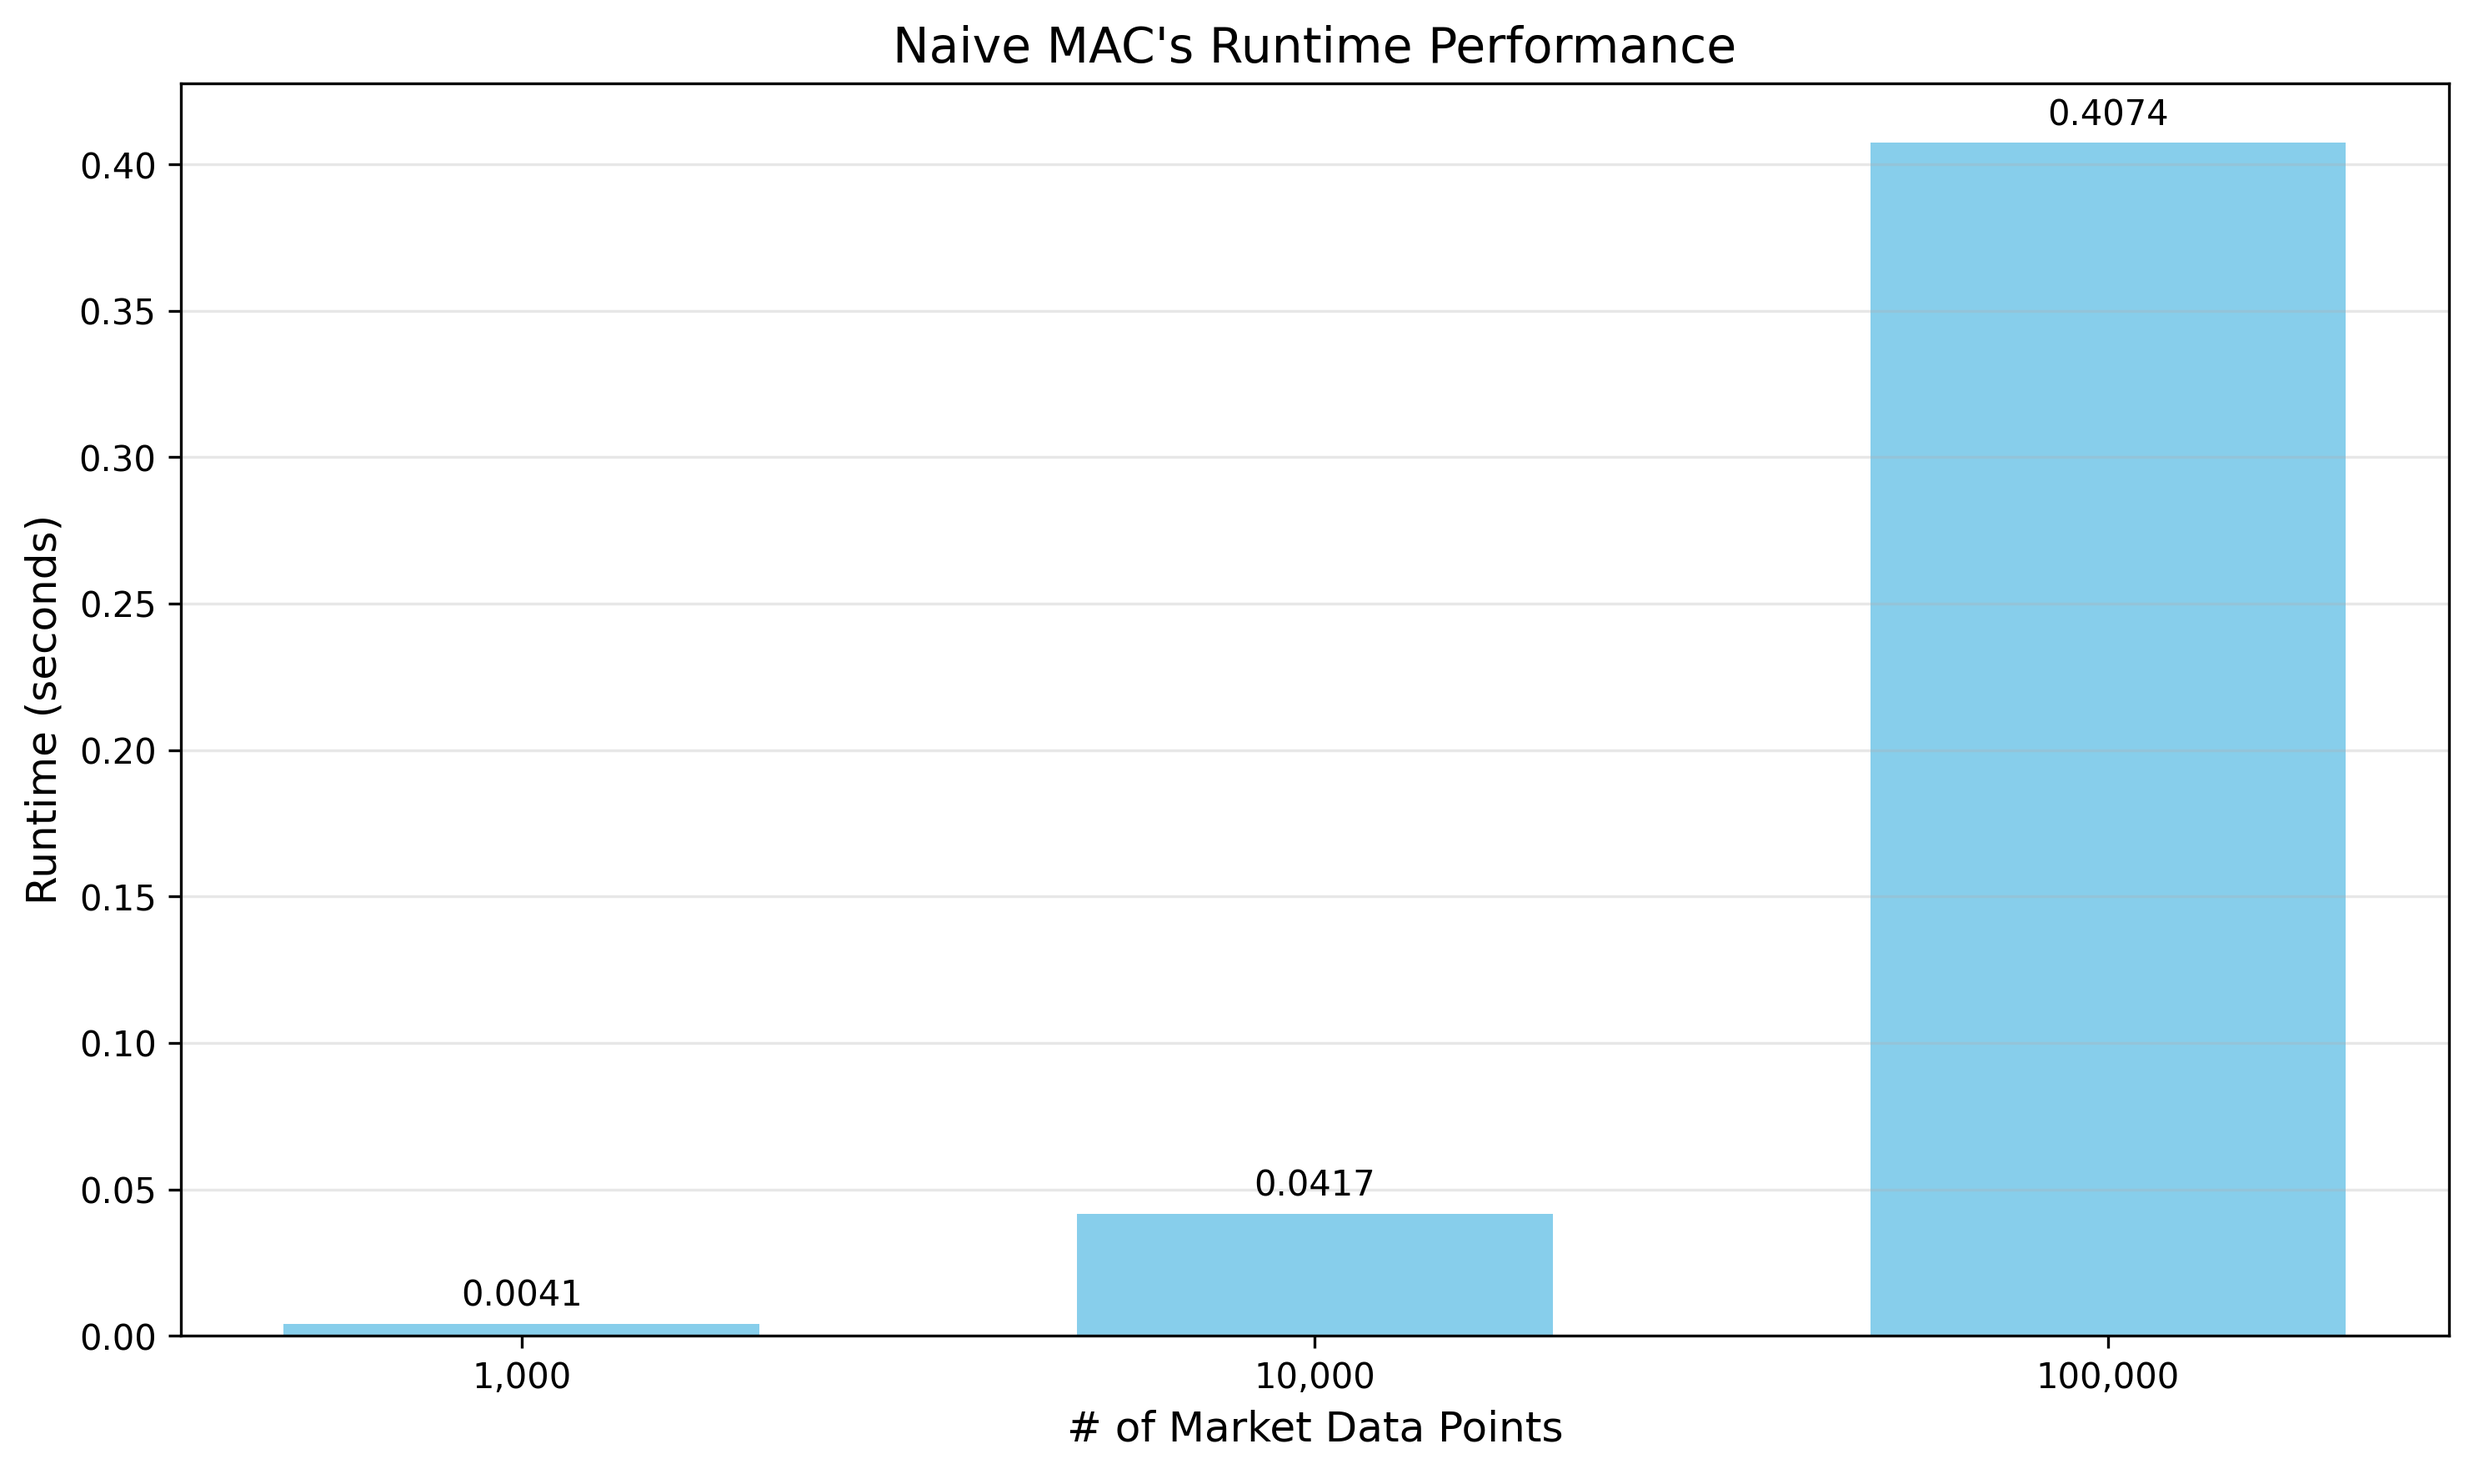
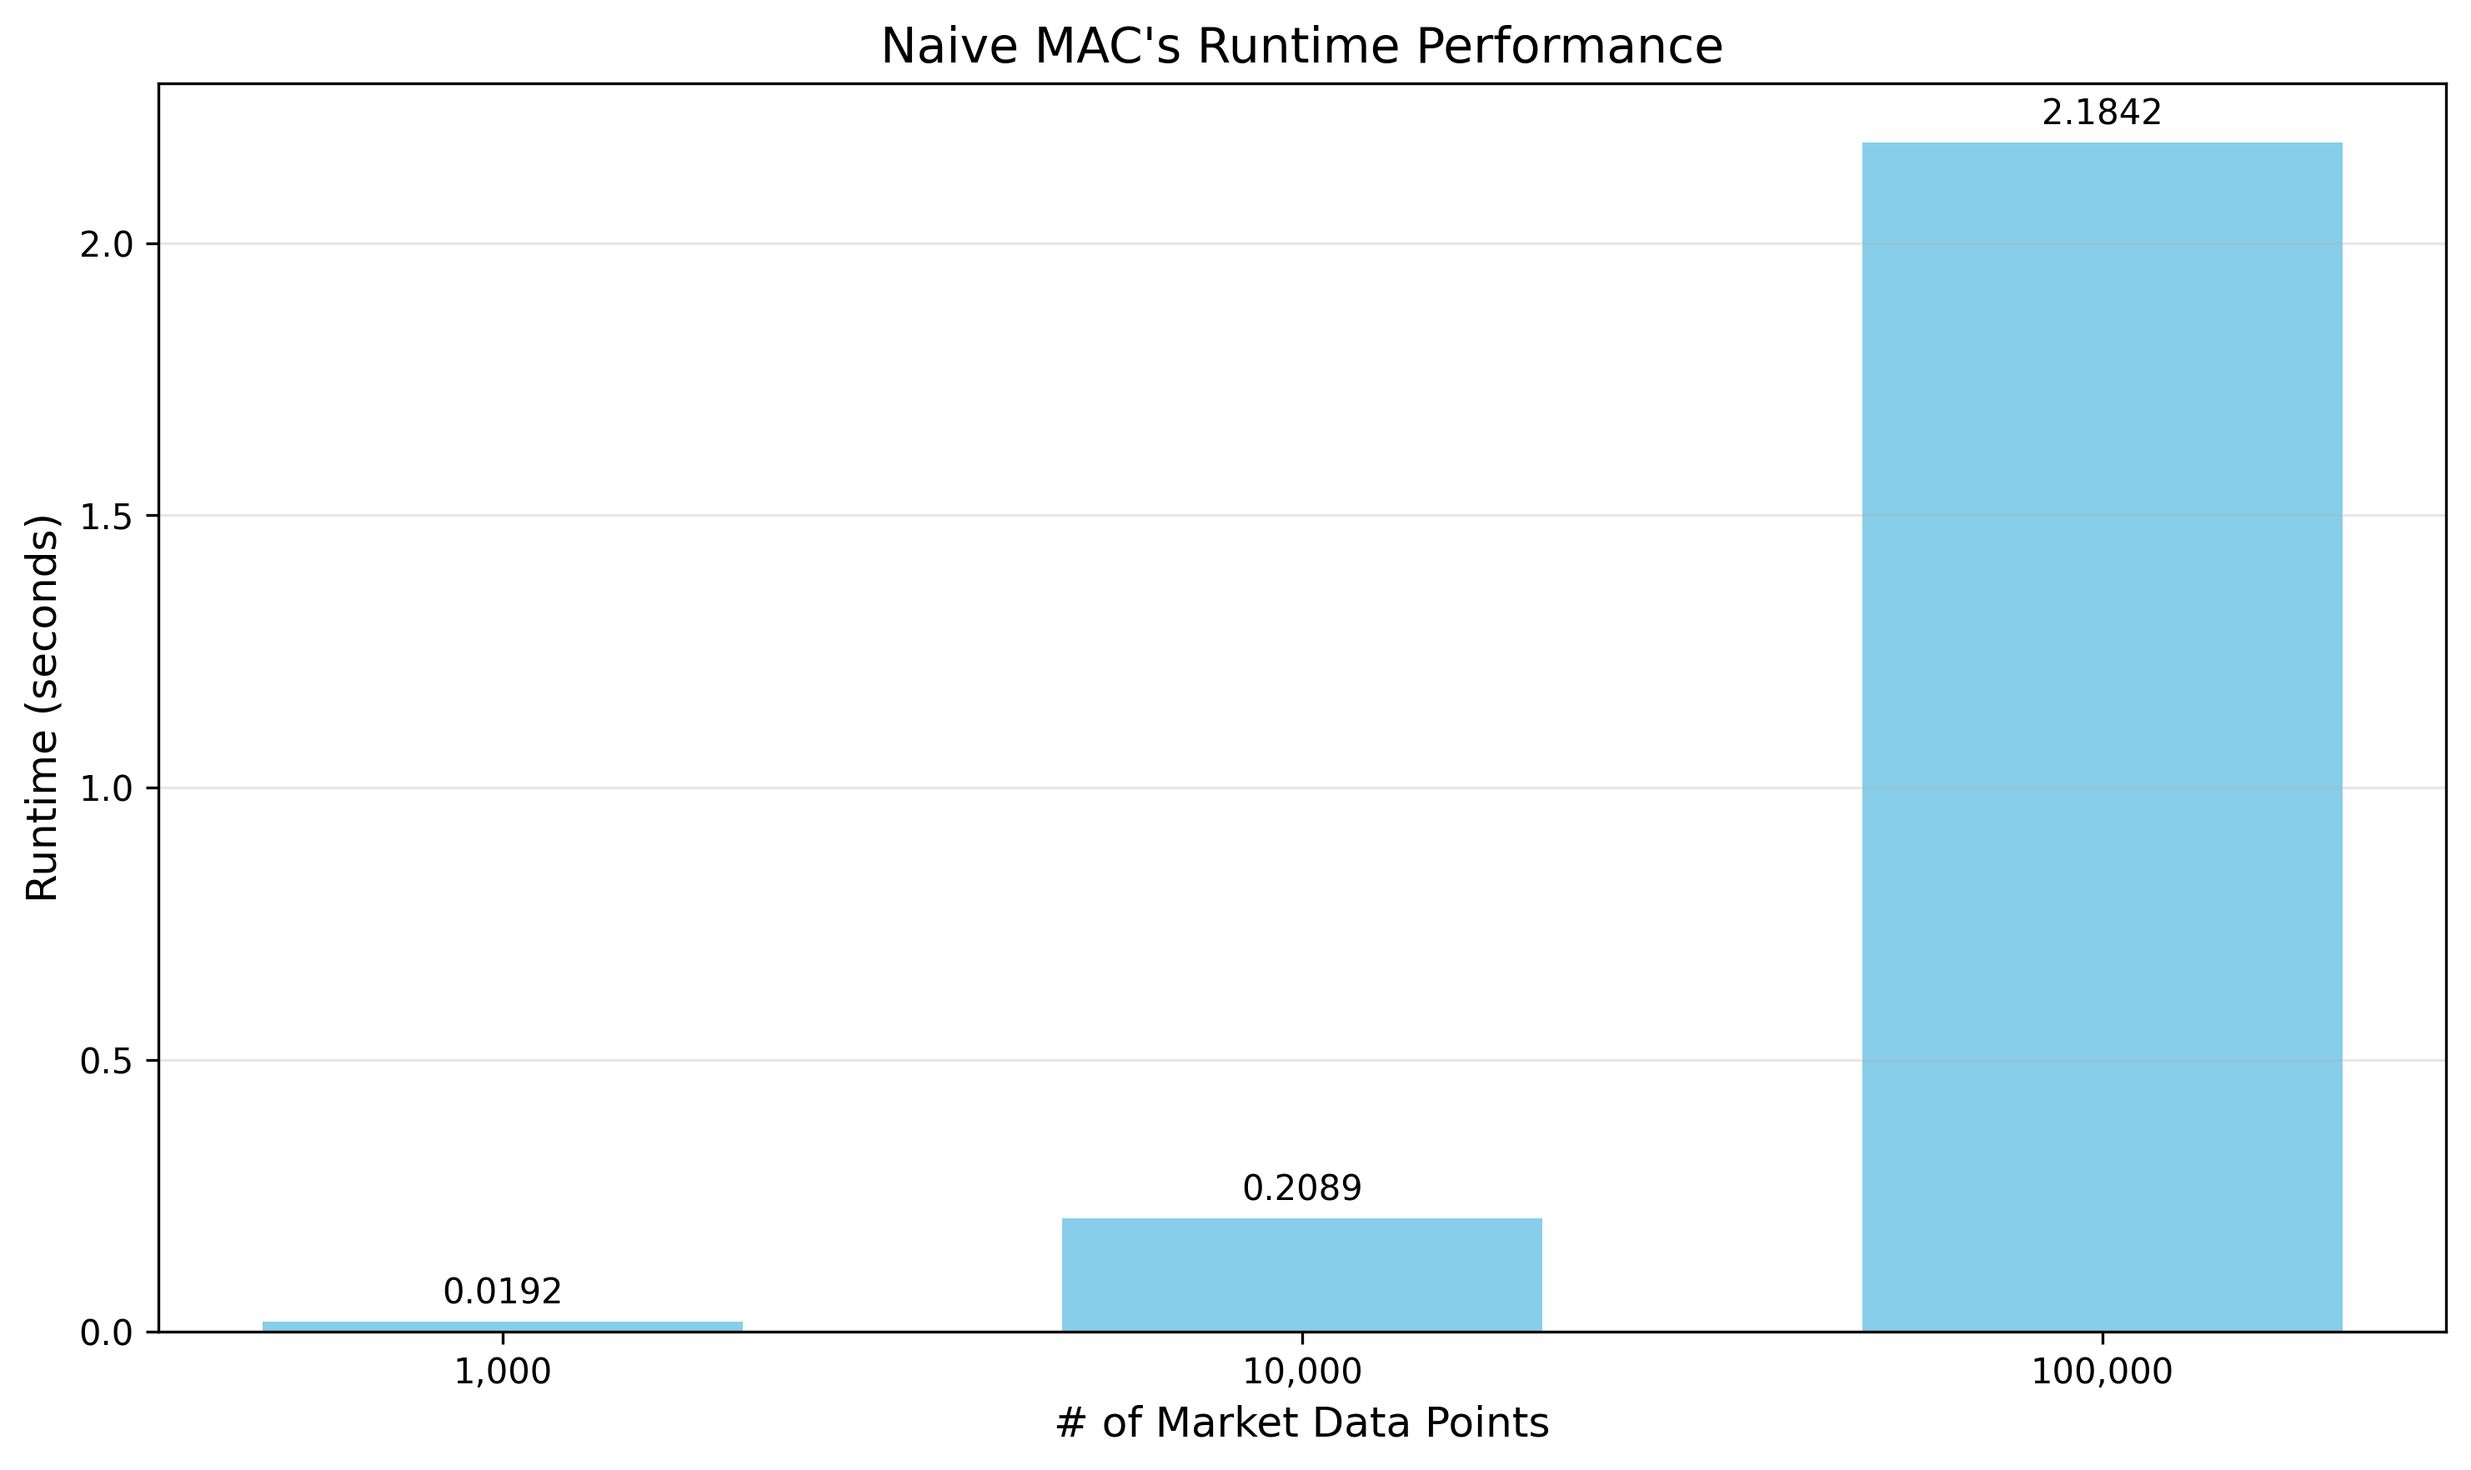
Finish complexity_report.md and refactor some code

diff --git a/Assignment3/ma_tests.py b/Assignment3/ma_tests.py
@@ -1,16 +1,13 @@
 import unittest
-import sys
-from data_loader import load_data
-from strategies import NaiveMovingAverageStrategy, WindowedMovingAverageStrategy
-from models import MarketDataPoint
+from Assignment3.data_loader import load_data
+from Assignment3.strategies import NaiveMovingAverageStrategy, WindowedMovingAverageStrategy
 from datetime import datetime
-from models import MarketDataPoint
+from Assignment3.models import MarketDataPoint
 import time
 import tracemalloc
 import cProfile
 import io
 import pstats
-
 
 
 class NaiveMACTestCase(unittest.TestCase):
@@ -25,7 +22,8 @@ class NaiveMACTestCase(unittest.TestCase):
         self.assertTrue(strategy.generate_signals(mdp), ["HOLD"])
         self.assertTrue(strategy.generate_signals(mdp), ["HOLD"])
         self.assertTrue(strategy.generate_signals(mdp), ["HOLD"])
-    
+
+
     def test_buy_signal(self):
         # create strategy and prices that are oriented towards buy signal
         strategy = NaiveMovingAverageStrategy(2, 5)
@@ -35,7 +33,8 @@ class NaiveMACTestCase(unittest.TestCase):
             mdp = MarketDataPoint(datetime.now(), "MSFT", price)
             signal = strategy.generate_signals(mdp)
         self.assertEqual(signal, ["BUY"])
-    
+
+
     def test_sell_signal(self):
         # get strategy, prices, and reverse
         strategy = NaiveMovingAverageStrategy(2, 5)
@@ -59,7 +58,8 @@ class WindowedMACTestCase(unittest.TestCase):
         self.assertTrue(strategy.generate_signals(mdp), ["HOLD"])
         self.assertTrue(strategy.generate_signals(mdp), ["HOLD"])
         self.assertTrue(strategy.generate_signals(mdp), ["HOLD"])
-    
+
+
     def test_buy_signal(self):
         # create strategy and prices that are oriented towards buy signal
         strategy = WindowedMovingAverageStrategy(2, 5)
@@ -69,7 +69,8 @@ class WindowedMACTestCase(unittest.TestCase):
             mdp = MarketDataPoint(datetime.now(), "MSFT", price)
             signal = strategy.generate_signals(mdp)
         self.assertEqual(signal, ["BUY"])
-    
+
+
     def test_sell_signal(self):
         # create strategy and prices that are oriented towards sel signal
         strategy = WindowedMovingAverageStrategy(2, 5)
@@ -80,6 +81,7 @@ class WindowedMACTestCase(unittest.TestCase):
             mdp = MarketDataPoint(datetime.now(), "MSFT", price)
             signal = strategy.generate_signals(mdp)
         self.assertEqual(signal, ["SELL"])
+
 
     def test_speed_100k(self):
         # create strategy and load data
@@ -96,7 +98,8 @@ class WindowedMACTestCase(unittest.TestCase):
         # get actual time for execution and test
         total_time = end - start
         self.assertTrue(total_time < 1.0)
-    
+
+
     def test_memory_100k(self):
         # create strategy and load data
         strategy = WindowedMovingAverageStrategy(2, 5)
@@ -107,7 +110,8 @@ class WindowedMACTestCase(unittest.TestCase):
             strategy.generate_signals(mdp)
         _, peak = tracemalloc.get_traced_memory()
         self.assertTrue(peak / 10**6 < 100)
-        
+
+
     def test_profiling_hotspots(self):
         # create strategy and load data
         strategy = WindowedMovingAverageStrategy(2, 5)
@@ -127,7 +131,8 @@ class WindowedMACTestCase(unittest.TestCase):
         output = s.getvalue()
         
         self.assertIn("generate_signals", output)
-    
+
+
     def test_profiling_memory_peaks(self):
         # get strategy and load data
         strategy = WindowedMovingAverageStrategy(2, 5)

diff --git a/Assignment3/profiler.py b/Assignment3/profiler.py
@@ -1,12 +1,9 @@
-"""_summary_
-"""
-from data_loader import load_data
+from Assignment3.data_loader import load_data
 import matplotlib.pyplot as plt
-from strategies import Strategy, NaiveMovingAverageStrategy, WindowedMovingAverageStrategy
+from Assignment3.strategies import Strategy, NaiveMovingAverageStrategy, WindowedMovingAverageStrategy
 import time
 import tracemalloc
 import os
-
 
 
 def get_runtime_and_memory(strategy: Strategy, ticks: list[int]):
@@ -14,8 +11,6 @@ def get_runtime_and_memory(strategy: Strategy, ticks: list[int]):
     data = load_data()
     for tick in ticks:
         curr_data = data[:tick]
-        # runtime.append(timeit.timeit(stmt=f"for data_point in curr_data: strategy.generate_signals(data_point)", 
-        #                             setup=f"data={data}; strategy={strategy}; tick={tick}; curr_data={curr_data}", number=1))
         tracemalloc.start()
         start = time.time()
         for data_point in curr_data: 
@@ -26,6 +21,7 @@ def get_runtime_and_memory(strategy: Strategy, ticks: list[int]):
         runtime.append(end - start)
 
     return runtime, memory
+
 
 def plot_strategy_performance(ticks: list[int], values, name, is_runtime=True):
     # Convert memory from bytes to MB for readability
@@ -81,8 +77,6 @@ def main():
         print(memory)
         plot_strategy_performance(ticks, runtime, name, is_runtime=True)
         plot_strategy_performance(ticks, memory, name, is_runtime=False)
-
-
 
 
 if __name__ == "__main__":

diff --git a/Assignment3/data_loader.py b/Assignment3/data_loader.py
@@ -13,7 +13,7 @@ a list to be returned by the function
 # imports
 import csv
 from datetime import datetime
-from models import MarketDataPoint
+from Assignment3.models import MarketDataPoint
 
 
 def load_data():
@@ -37,7 +37,7 @@ l
     data_points = []
 
     # open the csv file O(1)
-    with open('market_data.csv', newline="") as csvfile:
+    with open('Assignment3/market_data.csv', newline="") as csvfile:
         # create a reader using csv import for iteration O(1)
         reader = csv.reader(csvfile)
         # move to the next line to avoid column headers (which should be ignored) O(1)

diff --git a/Assignment3/strategies.py b/Assignment3/strategies.py
@@ -1,7 +1,5 @@
 from abc import ABC, abstractmethod
-# TODO: CHANGE IF WE MOVE MARKETDATAPOINT CLASS TO MODELS.PY
-from data_loader import MarketDataPoint
-from data_loader import load_data
+from Assignment3.models import MarketDataPoint
 from collections import deque
 
 class Strategy(ABC):

diff --git a/Assignment3/complexity_report.md b/Assignment3/complexity_report.md
@@ -22,12 +22,7 @@ We evaluate **runtime performance**, **memory usage**, and **theoretical complex
 ### 2. WindowedMovingAverageStrategy
 - **Description:** Maintains fixed-size buffer for sliding average.  
 - **Time Complexity:** O(1) per tick → O(n) overall  
-- **Space Complexity:** O(k) (buffer of window size k)  
-
-### 3. Optimized Naive Strategy (Optional)
-- **Description:** Refactored to reduce redundant recomputation.  
-- **Expected Complexity:** O(1) per tick, O(k) space  
-
+- **Space Complexity:** O(k) (buffer of window size k)
 ---
 
 ## 🧮 Theoretical Complexity Summary
@@ -36,8 +31,6 @@ We evaluate **runtime performance**, **memory usage**, and **theoretical complex
 |-------------------------------|----------------|-----------------------|-------------|
 | NaiveMovingAverageStrategy    | O(n)           | O(n²)                 | O(n)        |
 | WindowedMovingAverageStrategy | O(1)           | O(n)                  | O(k)        |
-| Optimized Naive (refactored)  | O(1)           | O(n)                  | O(k)        |
-
 ---
 
 ## 📊 Profiling & Benchmarking
@@ -46,25 +39,25 @@ We evaluate **runtime performance**, **memory usage**, and **theoretical complex
 
 | Strategy                     | 1,000 ticks | 10,000 ticks | 100,000 ticks |
 |------------------------------|-------------|--------------|---------------|
-| NaiveMovingAverageStrategy   |             |              |               |
-| WindowedMovingAverageStrategy|             |              |               |
-| Optimized Naive              |             |              |               |
+| NaiveMovingAverageStrategy   |0.01917600   |0.2089323     |2.18418240     |
+| WindowedMovingAverageStrategy|0.00906944   |0.10207295    |0.93876433     |
 
-### Memory Usage Results (MB)
+### Memory Usage Results (KiB)
 
 | Strategy                     | 1,000 ticks | 10,000 ticks | 100,000 ticks |
 |------------------------------|-------------|--------------|---------------|
-| NaiveMovingAverageStrategy   |             |              |               |
-| WindowedMovingAverageStrategy|             |              |               |
-| Optimized Naive              |             |              |               |
+| NaiveMovingAverageStrategy   |0.000288     |0.080428      |0.880356       |
+| WindowedMovingAverageStrategy|23.057164    |23.11152      |23.903596      |
 
 ---
 
 ## 📈 Visualizations
 - **Runtime Scaling Plot**: Runtime vs. input size (log-log or linear)  
 - **Memory Scaling Plot**: Memory usage vs. input size  
-
-*(Insert plots generated via `reporting.py` here, e.g. `plots/runtime_plot.png` and `plots/memory_plot.png`)*
+  <img alt="Naive_MAC_runtime_plot" height="300" src="plots\Naive_MAC_runtime_plot.png"/>
+  <img alt="Windowed_MAC_runtime_ploy" height="300" src="plots\Windowed_MAC_runtime_plot.png"/>
+  <img alt="Naive_MAC_memory_plot" height="300" src="plots\Naive_MAC_memory_plot.png"/>
+  <img alt="Windowed_MAC_memory_plot" height="300" src="plots\Windowed_MAC_memory_plot.png"/>
 
 ---
 
